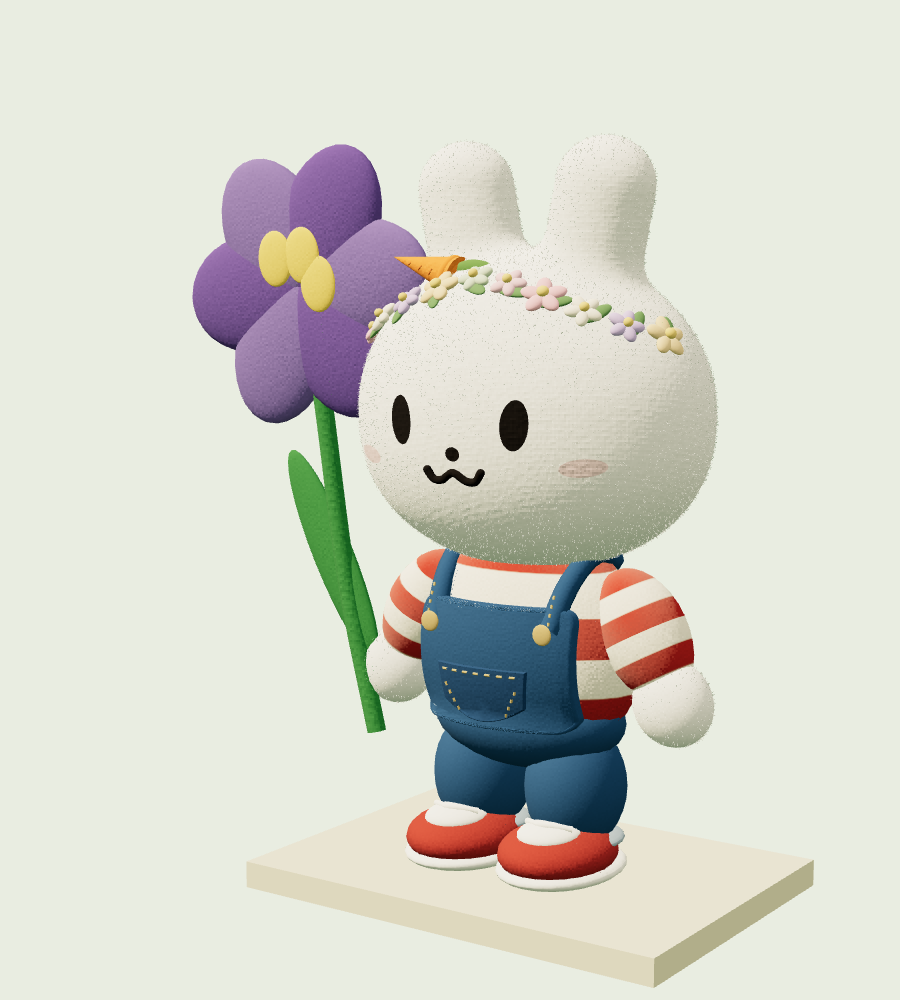
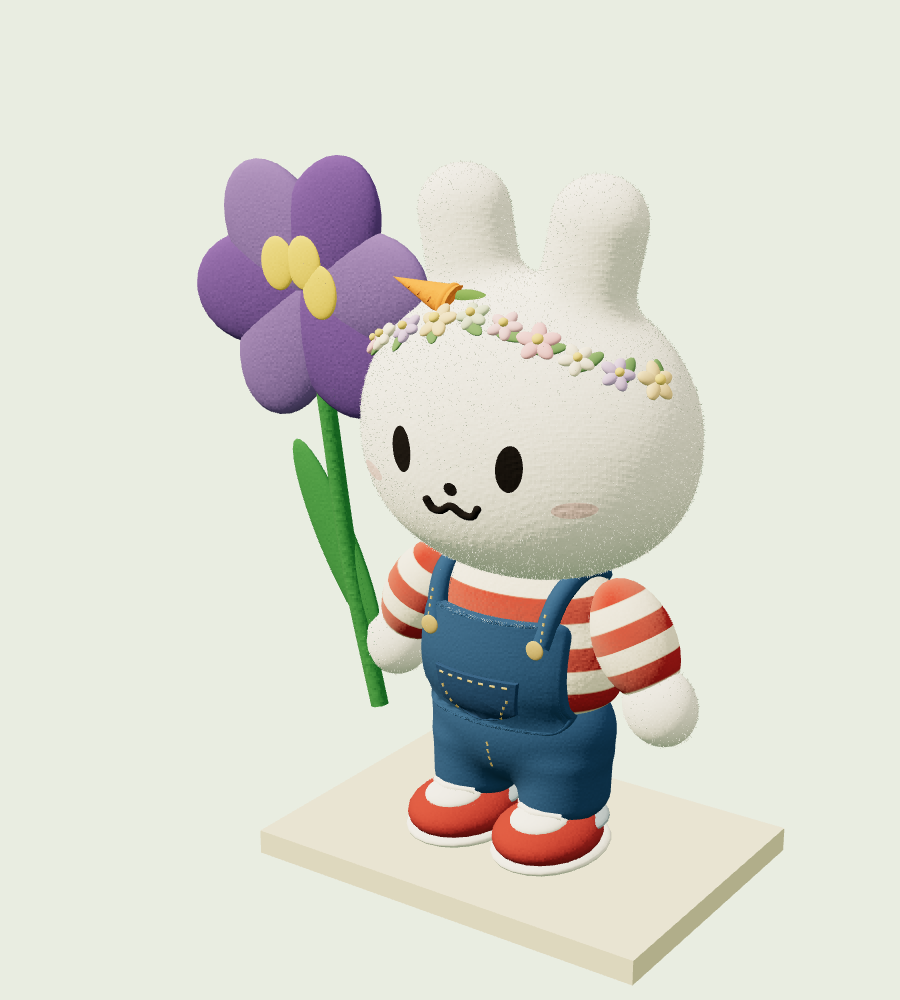
Sculpt concept-matched rabbit neckline and continuous short overalls

diff --git a/src/characters.js b/src/characters.js
@@ -2,6 +2,7 @@ import * as T from 'three';
 import {TessellateModifier} from 'three/addons/modifiers/TessellateModifier.js';
 import {mergeVertices} from 'three/addons/utils/BufferGeometryUtils.js';
 import {addRabbitHead} from './rabbit-head';
+import {createRabbitShirtGeometry,rabbitShirtFront,createRabbitTrouserGeometry,rabbitTrouserFront} from './rabbit-body';
 import {finishTextile} from './textiles';
 
 // Shared sculpted characters with physical mascot proportions.
@@ -34,25 +35,34 @@ export function addRabbit(world,moving,mat,x,z,scale=1,theme=0) {
   const seatBottom=lake?.43:.40;
   const body=new T.Group();g.add(body);
   // UV stripes follow the rounded shirt and sleeves, with no detached bands.
-  function stripedFabric(bands) {
+  function stripedFabric(bands,shirt=false) {
     const canvas=document.createElement('canvas');canvas.width=16;canvas.height=512;
     const ctx=canvas.getContext('2d');
     for(let row=0;row<512;row++) {
-      const y=(Math.cos(Math.PI*(row+.5)/512)+1)/2;
-      // A red top band meets the head; a white polar band looked like a neck.
-      ctx.fillStyle=Math.floor(y*bands)%2?'#b74035':'#fff9ed';ctx.fillRect(0,row,16,1);
+      const v=(row+.5)/512;
+      if(shirt) {
+        // Keep only a narrow white shirt edge under the chin, followed by red.
+        // These bands use body height, so the collar doesn't stretch at a pole.
+        const y=1.38-v*.78;
+        ctx.fillStyle=y>=1.28||Math.floor((1.28-y)/.11)%2?'#fff9ed':'#b74035';
+      } else {
+        const y=(Math.cos(Math.PI*v)+1)/2;
+        ctx.fillStyle=Math.floor(y*bands)%2?'#b74035':'#fff9ed';
+      }
+      ctx.fillRect(0,row,16,1);
     }
     const texture=new T.CanvasTexture(canvas);texture.colorSpace=T.SRGBColorSpace;
     const fabric=mat(P.white).clone();fabric.map=texture;fabric.roughness=.88;if(theme===0)finishTextile(fabric,'canvas');return fabric;
   }
-  const shirtFabric=!lake?stripedFabric(6):null;
+  const shirtFabric=!lake?stripedFabric(8,true):null;
   const sleeveFabric=!lake?stripedFabric(6):null;
-  const torso=oval(lake?0x73a4be:P.white,0,.96,0,.55,.53,.35,body);
+  const torso=mesh(createRabbitShirtGeometry(),lake?0x73a4be:P.white,0,0,0,body);
+  torso.name='stuffed-rabbit-shirt';
   if(shirtFabric)torso.material=shirtFabric;
   // Sleeve segments are attached to shoulder pivots so waving stays coherent.
   const arms=[];
   for(const side of [-1,1]) {
-    const arm=new T.Group();arm.position.set(side*.47,1.24,0);body.add(arm);arm.rotation.z=side*.50;arms.push(arm);
+    const arm=new T.Group();arm.position.set(side*.49,1.26,0);body.add(arm);arm.rotation.z=side*.50;arms.push(arm);
     const sleeve=oval(lake?0x73a4be:P.white,0,-.21,0,.19,.30,.20,arm);
     if(sleeveFabric)sleeve.material=sleeveFabric;
     oval(P.white,0,-.53,.015,.175,.19,.16,arm).name='plush-paw';
@@ -67,12 +77,11 @@ export function addRabbit(world,moving,mat,x,z,scale=1,theme=0) {
     const emblem=mesh(new T.TorusGeometry(.10,.016,6,24),P.white,-.22,.84,.35,body);emblem.rotation.z=.4;
     stroke(P.white,[[-.27,.76,.35],[-.18,.92,.35]],.013,body);
   } else {
-    // A shallow pelvis leaves two distinct legs, rather than a hanging belly.
-    oval(P.denim,0,.63,.015,.47,.23,.31,body);
+    if(sitting)oval(P.denim,0,.63,.015,.47,.23,.31,body);
+    else mesh(createRabbitTrouserGeometry(),P.denim,0,0,0,body).name='continuous-overall-trousers';
     function bodyFront(x,y) {
-      const shirt=.35*Math.sqrt(Math.max(0,1-(x/.55)**2-((y-.96)/.53)**2));
-      const trousers=.015+.31*Math.sqrt(Math.max(0,1-(x/.47)**2-((y-.63)/.23)**2));
-      return Math.max(shirt,trousers);
+      const trousers=sitting?.015+.31*Math.sqrt(Math.max(0,1-(x/.47)**2-((y-.63)/.23)**2)):rabbitTrouserFront(x,y);
+      return Math.max(rabbitShirtFront(x,y),trousers);
     }
     function fittedPatch(shape,color,offset,depth,bevel) {
       const object=patch(shape,color,0,depth,bevel,body);
@@ -90,7 +99,7 @@ export function addRabbit(world,moving,mat,x,z,scale=1,theme=0) {
     // Thin cloth follows the torso, including the pocket and its stitches.
     fittedPatch(rounded(-.38,.65,.76,.52,.07),P.denim,.020,.035,.012);
     for(const side of [-1,1]) {
-      stroke(P.denim,[[side*.34,1.34,-.14],[side*.34,1.39,.02],[side*.32,1.29,.19],[side*.29,1.08,bodyFront(side*.29,1.08)+.045]],.05,body);
+      stroke(P.denim,[[side*.34,1.31,-.14],[side*.33,1.36,.02],[side*.32,1.29,bodyFront(side*.32,1.29)+.025],[side*.29,1.08,bodyFront(side*.29,1.08)+.045]],.05,body);
       oval(P.thread,side*.29,1.08,bodyFront(side*.29,1.08)+.092,.046,.046,.014,body);
       for(let i=0;i<4;i++) {
         const y=1.24-i*.036;
@@ -101,13 +110,17 @@ export function addRabbit(world,moving,mat,x,z,scale=1,theme=0) {
     function stitch(x0,y0,x1,y1) {stroke(P.thread,[[x0,y0,bodyFront(x0,y0)+.095],[x1,y1,bodyFront(x1,y1)+.095]],.006,body)}
     for(let i=0;i<7;i++)stitch(-.19+i*.058,.889,-.163+i*.058,.889);
     for(const side of [-1,1])for(let i=0;i<4;i++)stitch(side*(.18-i*.018),.83-i*.035,side*(.175-i*.018),.813-i*.035);
+    if(!sitting)for(let i=0;i<4;i++) {
+      const y=.54-i*.04;
+      stroke(P.thread,[[0,y,rabbitTrouserFront(0,y)+.012],[.006,y-.020,rabbitTrouserFront(.006,y-.020)+.012]],.005,body);
+    }
   }
   for(const side of [-1,1]) {
     const leg=new T.Group();leg.position.set(side*.245,sitting?seatBottom+.225:.48,0);body.add(leg);
     // Extend seated legs horizontally, with their soles facing forward.
     // Their underside and the pelvis share the same support height.
     if(sitting)leg.rotation.x=-Math.PI/2;
-    oval(lake?0x6598b3:P.denim,0,-.14,.015,.225,.29,.24,leg);
+    if(sitting)oval(lake?0x6598b3:P.denim,0,-.14,.015,.225,.29,.24,leg);
     oval(lake?0x87b2c8:0x9eb0bc,0,-.36,.04,.23,.045,.24,leg);
     oval(lake?0x343536:P.white,0,-.47,.13,.265,.065,.35,leg);
     oval(lake?0x343536:P.red,0,-.40,.16,.25,.125,.31,leg);

diff --git a/src/rabbit-body.js b/src/rabbit-body.js
@@ -1,0 +1,125 @@
+import * as T from 'three';
+import {MarchingCubes} from 'three/addons/objects/MarchingCubes.js';
+
+// Coordinates are shared with the character's clothes and shoulder pivots.
+// The neck opening is deliberately broad and flat, then tucked into the head.
+const SHIRT_DEPTH = .70;
+const shirtCurve = new T.CatmullRomCurve3([
+  new T.Vector3(.39, .68, 0),
+  new T.Vector3(.48, .75, 0),
+  new T.Vector3(.52, .89, 0),
+  new T.Vector3(.515, 1.00, 0),
+  new T.Vector3(.485, 1.13, 0),
+  new T.Vector3(.44, 1.26, 0),
+  new T.Vector3(.33, 1.38, 0),
+], false, 'centripetal');
+const shirtProfile = shirtCurve.getPoints(96).map(p => new T.Vector2(p.x, p.y));
+
+function shirtRadius(y) {
+  if (y < .68 || y > 1.38) return 0;
+  for (let i = 1; i < shirtProfile.length; i++) {
+    const low = shirtProfile[i - 1], high = shirtProfile[i];
+    if (y <= high.y) {
+      const t = (y - low.y) / (high.y - low.y);
+      return T.MathUtils.lerp(low.x, high.x, t);
+    }
+  }
+  return .33;
+}
+
+export function rabbitShirtFront(x, y) {
+  const radius = shirtRadius(y);
+  return SHIRT_DEPTH * Math.sqrt(Math.max(0, radius * radius - x * x));
+}
+
+export function createRabbitShirtGeometry() {
+  const points = [new T.Vector2(0, .68), ...shirtProfile, new T.Vector2(0, 1.38)];
+  const geometry = new T.LatheGeometry(points, 64);
+  geometry.scale(1, 1, SHIRT_DEPTH);
+  // A linear height UV keeps the collar's stripe width predictable on the
+  // pear-shaped body; its circumference still uses the lathe's U coordinate.
+  const positions = geometry.attributes.position, uv = geometry.attributes.uv;
+  for (let i = 0; i < positions.count; i++) uv.setY(i, (positions.getY(i) - .60) / .78);
+  geometry.computeVertexNormals();
+  geometry.computeBoundingBox();
+  geometry.computeBoundingSphere();
+  return geometry;
+}
+
+function ellipsoidDistance(x, y, z, rx, ry, rz) {
+  const k0 = Math.hypot(x / rx, y / ry, z / rz);
+  const k1 = Math.hypot(x / (rx * rx), y / (ry * ry), z / (rz * rz));
+  return k1 > 1e-9 ? k0 * (k0 - 1) / k1 : -Math.min(rx, ry, rz);
+}
+
+function smoothUnion(a, b, blend) {
+  const h = Math.max(blend - Math.abs(a - b), 0) / blend;
+  return Math.min(a, b) - h * h * blend * .25;
+}
+
+function trousersDistance(x, y, z) {
+  // The pelvis continues into both short trouser legs. Each leg has nearly
+  // straight sides and a rounded ankle, rather than an individual thigh ball.
+  const hip = ellipsoidDistance(x, y - .565, z - .01, .49, .325, .305);
+  const nearestY = T.MathUtils.clamp(y, .225, .425);
+  const legRadius = T.MathUtils.lerp(.207, .225, T.MathUtils.clamp((y - .12) / .40, 0, 1));
+  let legs = Infinity;
+  for (const side of [-1, 1]) {
+    const leg = ellipsoidDistance(x - side * .245, y - nearestY, z - .015, legRadius, .125, .245);
+    legs = smoothUnion(legs, leg, .045);
+  }
+  return smoothUnion(hip, legs, .065);
+}
+
+export function rabbitTrouserFront(x, y) {
+  if (trousersDistance(x, y, .01) >= 0) return 0;
+  let low = .01, high = .40;
+  for (let i = 0; i < 22; i++) {
+    const middle = (low + high) / 2;
+    if (trousersDistance(x, y, middle) < 0) low = middle;
+    else high = middle;
+  }
+  return (low + high) / 2;
+}
+
+export function createRabbitTrouserGeometry() {
+  const resolution = 72, extent = .70, centerY = .48;
+  // MarchingCubes only needs a material for initialization; callers own their
+  // final clothing material, and the temporary allocation is disposed here.
+  const temporaryMaterial = new T.MeshBasicMaterial();
+  const polygonizer = new MarchingCubes(resolution, temporaryMaterial, false, false, 50000);
+  polygonizer.isolation = 0;
+  for (let z = 0; z < resolution; z++) {
+    const pz = (z / resolution * 2 - 1) * extent;
+    for (let y = 0; y < resolution; y++) {
+      const py = (y / resolution * 2 - 1) * extent + centerY;
+      for (let x = 0; x < resolution; x++) {
+        const px = (x / resolution * 2 - 1) * extent;
+        polygonizer.field[x + y * resolution + z * resolution * resolution] = -trousersDistance(px, py, pz);
+      }
+    }
+  }
+  polygonizer.update();
+  if (!polygonizer.count || polygonizer.count >= polygonizer.positionArray.length / 3) {
+    polygonizer.geometry.dispose();
+    temporaryMaterial.dispose();
+    throw new Error('Rabbit trousers exceeded their geometry buffer.');
+  }
+  const positions = polygonizer.positionArray.slice(0, polygonizer.count * 3);
+  const normals = polygonizer.normalArray.slice(0, polygonizer.count * 3);
+  for (let i = 0; i < positions.length; i += 3) {
+    positions[i] *= extent;
+    positions[i + 1] = positions[i + 1] * extent + centerY;
+    positions[i + 2] *= extent;
+    const length = Math.hypot(normals[i], normals[i + 1], normals[i + 2]) || 1;
+    normals[i] /= length; normals[i + 1] /= length; normals[i + 2] /= length;
+  }
+  const geometry = new T.BufferGeometry();
+  geometry.setAttribute('position', new T.BufferAttribute(positions, 3));
+  geometry.setAttribute('normal', new T.BufferAttribute(normals, 3));
+  geometry.computeBoundingBox();
+  geometry.computeBoundingSphere();
+  polygonizer.geometry.dispose();
+  temporaryMaterial.dispose();
+  return geometry;
+}

diff --git a/docs/previews/README.md b/docs/previews/README.md
@@ -2,7 +2,7 @@
 
 这里展示当前程序在浏览器中的实际渲染效果，区别于 [风格概念图](../concepts/README.md)。
 
-兔子参考实体公仔重新调整肩颈衔接和身体比例：下脸颊更饱满，头部直接接在条纹上衣上，躯干不再压缩，背带裤沿身体曲面贴合，裤腰收小并露出完整双腿。保留花环、牛仔缝线和蜜蜂装胡萝卜。
+兔子参考中间的毛绒概念图继续调整：上衣采用宽而平缓的领口，藏进下巴后面；下巴下方的白色衣边收窄，下面接红色条纹。裤腰、腰臀与短裤腿合成连续曲面，避免独立球体造成的分节感。保留实体公仔校准后的头部、花环、牛仔缝线和蜜蜂装胡萝卜。
 
 第一个场景仍使用短绒纤维、布料纹理、毛毡花草和柔软绒簇地面。下面的模型近景与公园使用同一份 Three.js 模型代码。
 
@@ -13,6 +13,12 @@
 ## 同一兔子模型的近景
 
 ![毛绒兔子近景](plush-rabbit.png)
+
+## 衔接与裤腿调整前后
+
+| 调整前 | 调整后 |
+| --- | --- |
+| ![调整前的模型近景](plush-rabbit-before.png) | ![调整后的模型近景](plush-rabbit.png) |
 
 ## 侧面衔接
 

diff --git a/README.md b/README.md
@@ -25,7 +25,7 @@ npm run preview -- --port 3000
 ## 交互
 
 - 三个场景自由切换，包含小兔、花草、蜜蜂、游船、水波与热气球动画。
-- 兔子参考实体公仔调整头身比例：饱满脸颊、平缓下巴直接衔接条纹上衣，完整躯干与两条裤腿；保留连续立体兔耳、贴合曲面的五官、花环与背带裤。头部摆动以肩颈连接处为轴。
+- 兔子结合实体公仔与毛绒概念图调整造型：宽领口藏入下巴，窄白衣边接红色条纹，花园背带裤的腰臀与短裤腿连续成型；保留饱满脸颊、立体兔耳、曲面五官与花环。头部摆动以肩颈连接处为轴。
 - 第一个场景采用毛绒与毛毡风格：真实短纤维轮廓、程序化布料纹理、牛仔缝线、毛毡植物、草地及蜜蜂装胡萝卜。
 - 毛绒纤维通过实例化绘制；动画最高 30 帧/秒，花园阴影按需刷新，暂停时只在视角变化后绘制。无需额外外部素材。
 - 右侧工具支持缩放、视角复位、暂停与全屏。
